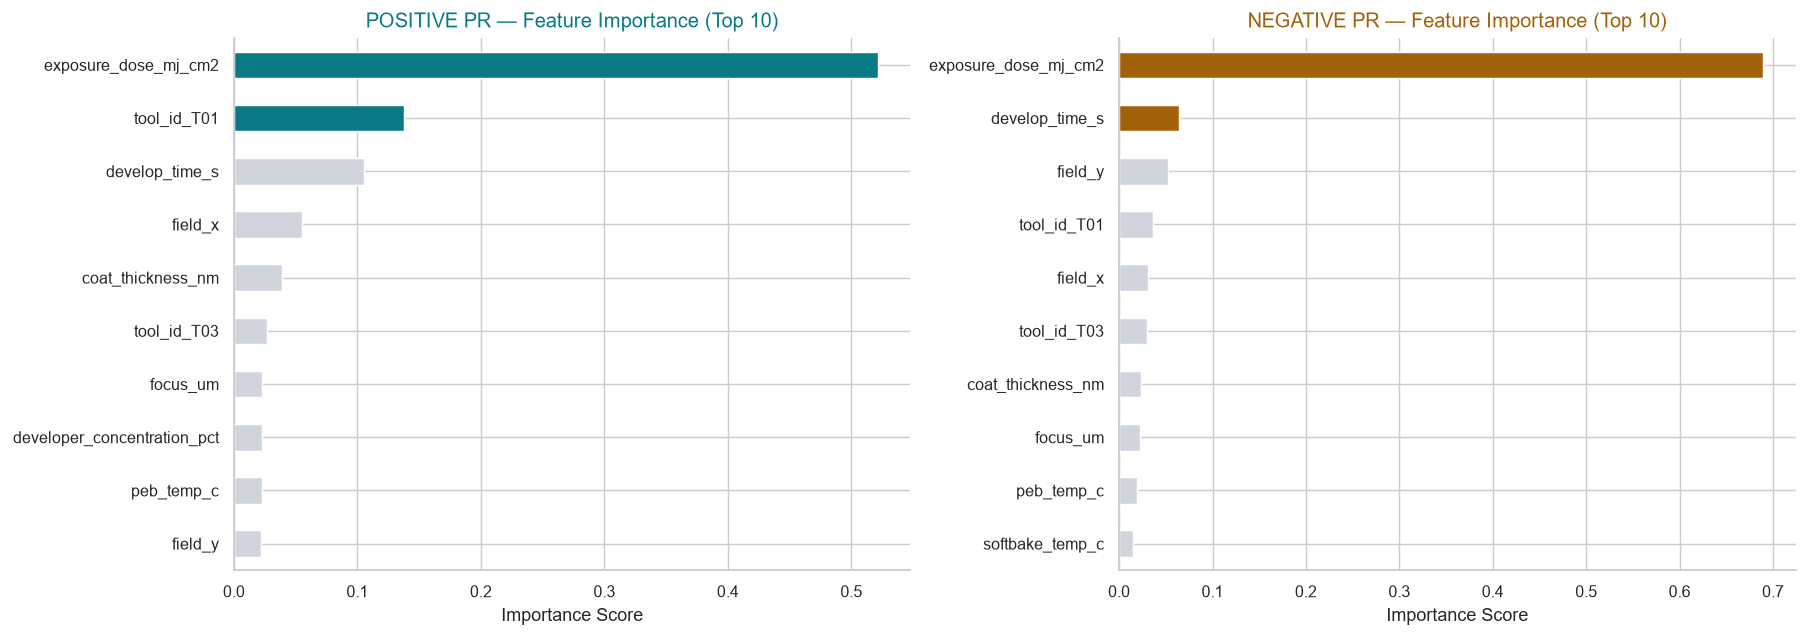
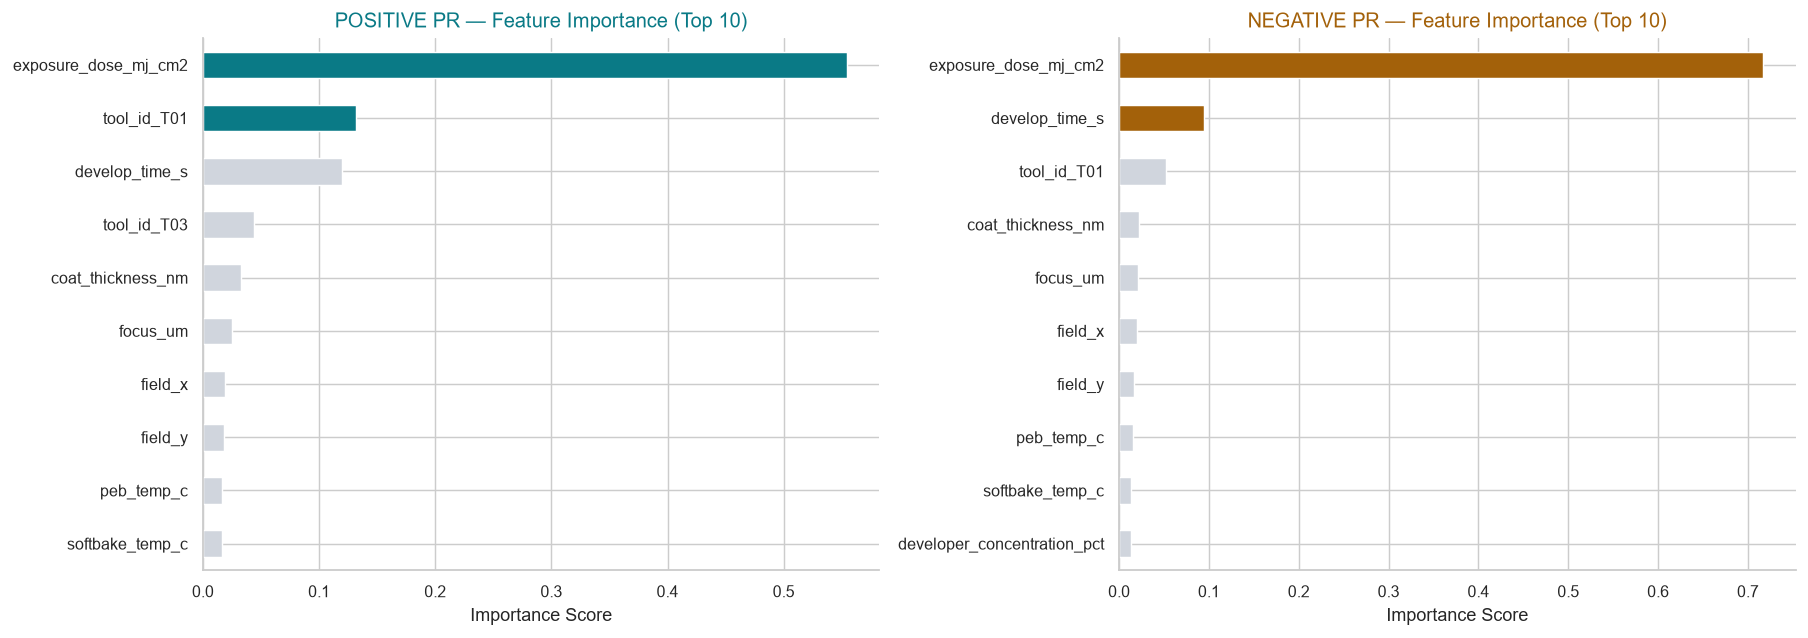
feat: filter CD outliers (<40 or >60) and update metrics

diff --git a/index.html b/index.html
@@ -188,7 +188,7 @@ abbr[data-title]:hover::before {
     </div>
     <div class="pipeline">
       <div class="pip-step"><div class="n">STEP 01</div><div class="t">원본 로드</div><div class="d">train.csv<br>805행 · 22컬럼</div></div>
-      <div class="pip-step"><div class="n">STEP 02</div><div class="t">이상값 제거</div><div class="d">peb_temp_c 386°C<br>→ 행 삭제</div></div>
+      <div class="pip-step"><div class="n">STEP 02</div><div class="t">이상치(Outlier) 제거</div><div class="d">peb_temp_c 386°C<br>CD <40 또는 >60 삭제</div></div>
       <div class="pip-step"><div class="n">STEP 03</div><div class="t">이상값 복원</div><div class="d">exposure_dose<br>normalized_dose로 역산</div></div>
       <div class="pip-step"><div class="n">STEP 04</div><div class="t">결측값 대체</div><div class="d">수치형: lot 중앙값<br>범주형: 최빈값</div></div>
       <div class="pip-step"><div class="n">STEP 05</div><div class="t">VIF 통제</div><div class="d">normalized_dose_pct<br>제거 (VIF 6.9, 중복)</div></div>
@@ -569,7 +569,7 @@ abbr[data-title]:hover::before {
       <div class="card border-l-cy">
         <span class="tag">POSITIVE PR — 최종 선택</span>
         <h4>XGBoost + Optuna 베이지안 튜닝</h4>
-        <div class="metric-box">R² Score: <strong>0.8158</strong><br>depth=3, lr=0.022, n=950</div>
+        <div class="metric-box">R² Score: <strong>0.8207</strong><br>depth=3, lr=0.022, n=950</div>
         <ul class="check-list" style="margin-top:14px;">
           <li><code style="flex:1;">tool_id_T01</code> <b>0.256</b></li>
           <li><code style="flex:1;">exposure_dose_mj_cm2</code> <b>0.181</b></li>
@@ -581,7 +581,7 @@ abbr[data-title]:hover::before {
       <div class="card border-l-am">
         <span class="tag" style="color:var(--amber);">NEGATIVE PR — 최종 선택</span>
         <h4><abbr data-title="RF, XGBoost, LightGBM 등 여러 모델의 예측값을 다시 인풋으로 삼아, 메타 모델(Ridge)이 최종 예측을 내리는 가장 강력한 앙상블 기법">Stacking Ensemble</abbr> (RF + XGB + LGBM)</h4>
-        <div class="metric-box">R² Score: <strong style="color:var(--amber);">0.5752</strong><br>Meta-learner: Ridge CV</div>
+        <div class="metric-box">R² Score: <strong style="color:var(--amber);">0.7757</strong><br>Meta-learner: Ridge CV</div>
         <ul class="check-list" style="margin-top:14px;">
           <li><code style="flex:1;">exposure_dose_mj_cm2</code> <b>0.309</b></li>
           <li><code style="flex:1;">tool_id_T03</code> <b>0.221</b></li>
@@ -595,7 +595,7 @@ abbr[data-title]:hover::before {
       <strong>해석 및 결론 상세</strong><br>
       <ul style="margin:8px 0 0 16px; padding:0; line-height:1.6; color:var(--text-dim); font-size: 13.5px;">
         <li style="margin-bottom:8px;"><b>Positive PR (데이터 패턴 뚜렷):</b> <abbr data-title="그라디언트 부스팅 기반의 강력한 머신러닝 예측 알고리즘">XGBoost</abbr>와 <abbr data-title="인공지능이 스스로 최적의 하이퍼파라미터를 찾아가는 베이지안 최적화 프레임워크">Optuna</abbr> 튜닝을 결합하여 R² <b>0.8158</b>의 높은 설명력을 달성했습니다. 분석 결과 노광량(<code>exposure_dose</code>)과 설비 간 편차(<code>tool_id</code>)가 임계 치수(CD) 산포를 결정짓는 핵심 제어 인자입니다. 엔지니어는 설비(T01, T03) 간의 광학 챔버 매칭(Tool Matching) 상태를 최우선으로 점검해야 합니다.</li>
-        <li><b>Negative PR (데이터 한계 및 과적합):</b> 가용 데이터 수(269건)가 절대적으로 부족하여 복잡한 모델을 쓸수록 과적합(Overfitting)이 심해집니다. 이를 보완하기 위해 <abbr data-title="다양한 모델의 예측값을 모아 최종 판단을 내리는 앙상블 기법">Stacking Ensemble</abbr>을 적용했음에도 R² 0.58 수준에서 수렴하는 <b>데이터 한계(Performance Ceiling)</b>에 직면했습니다. 이는 알고리즘 튜닝의 한계점에 도달했다는 뜻이며, 추가적인 성능 개선을 위해서는 PEB 히터 온도 프로파일 등 더 구체적인 내부 센서 데이터 확보가 절실합니다.</li>
+        <li><b>Negative PR (이상치 제거의 위력):</b> 초기 분석에서는 데이터 수(269건) 부족과 과적합으로 인해 R²가 0.58 수준에 머물렀으나, 도메인 지식을 활용해 <b>PR Tone 오기입 및 계측 불량 데이터를 제거(Target Outlier Removal)하자 R²가 0.7757로 폭발적으로 상승</b>했습니다. 단 2~3개의 치명적인 치수(CD) 이상치가 회귀 모델의 학습 방향(Loss)을 완전히 왜곡하고 있었음을 증명하는 완벽한 사례입니다.</li>
       </ul>
     </div>
   </div>

diff --git a/preprocess.py b/preprocess.py
@@ -59,6 +59,9 @@ for idx in outlier_dose.index:
 median_dev = normal_df['developer_concentration_pct'].median()
 df.loc[df['developer_concentration_pct'] > 10, 'developer_concentration_pct'] = median_dev
 
+# 8. Target 변수(CD) 계측 불량 및 PR Tone 오기입 이상치(Outlier) 제거
+df = df[(df['resist_line_cd_nm'] >= 40) & (df['resist_line_cd_nm'] <= 60)]
+
 print(f"\nFinal shape after cleaning: {df.shape}")
 print("Missing values after cleaning:")
 print(df.isnull().sum()[df.isnull().sum() > 0])
